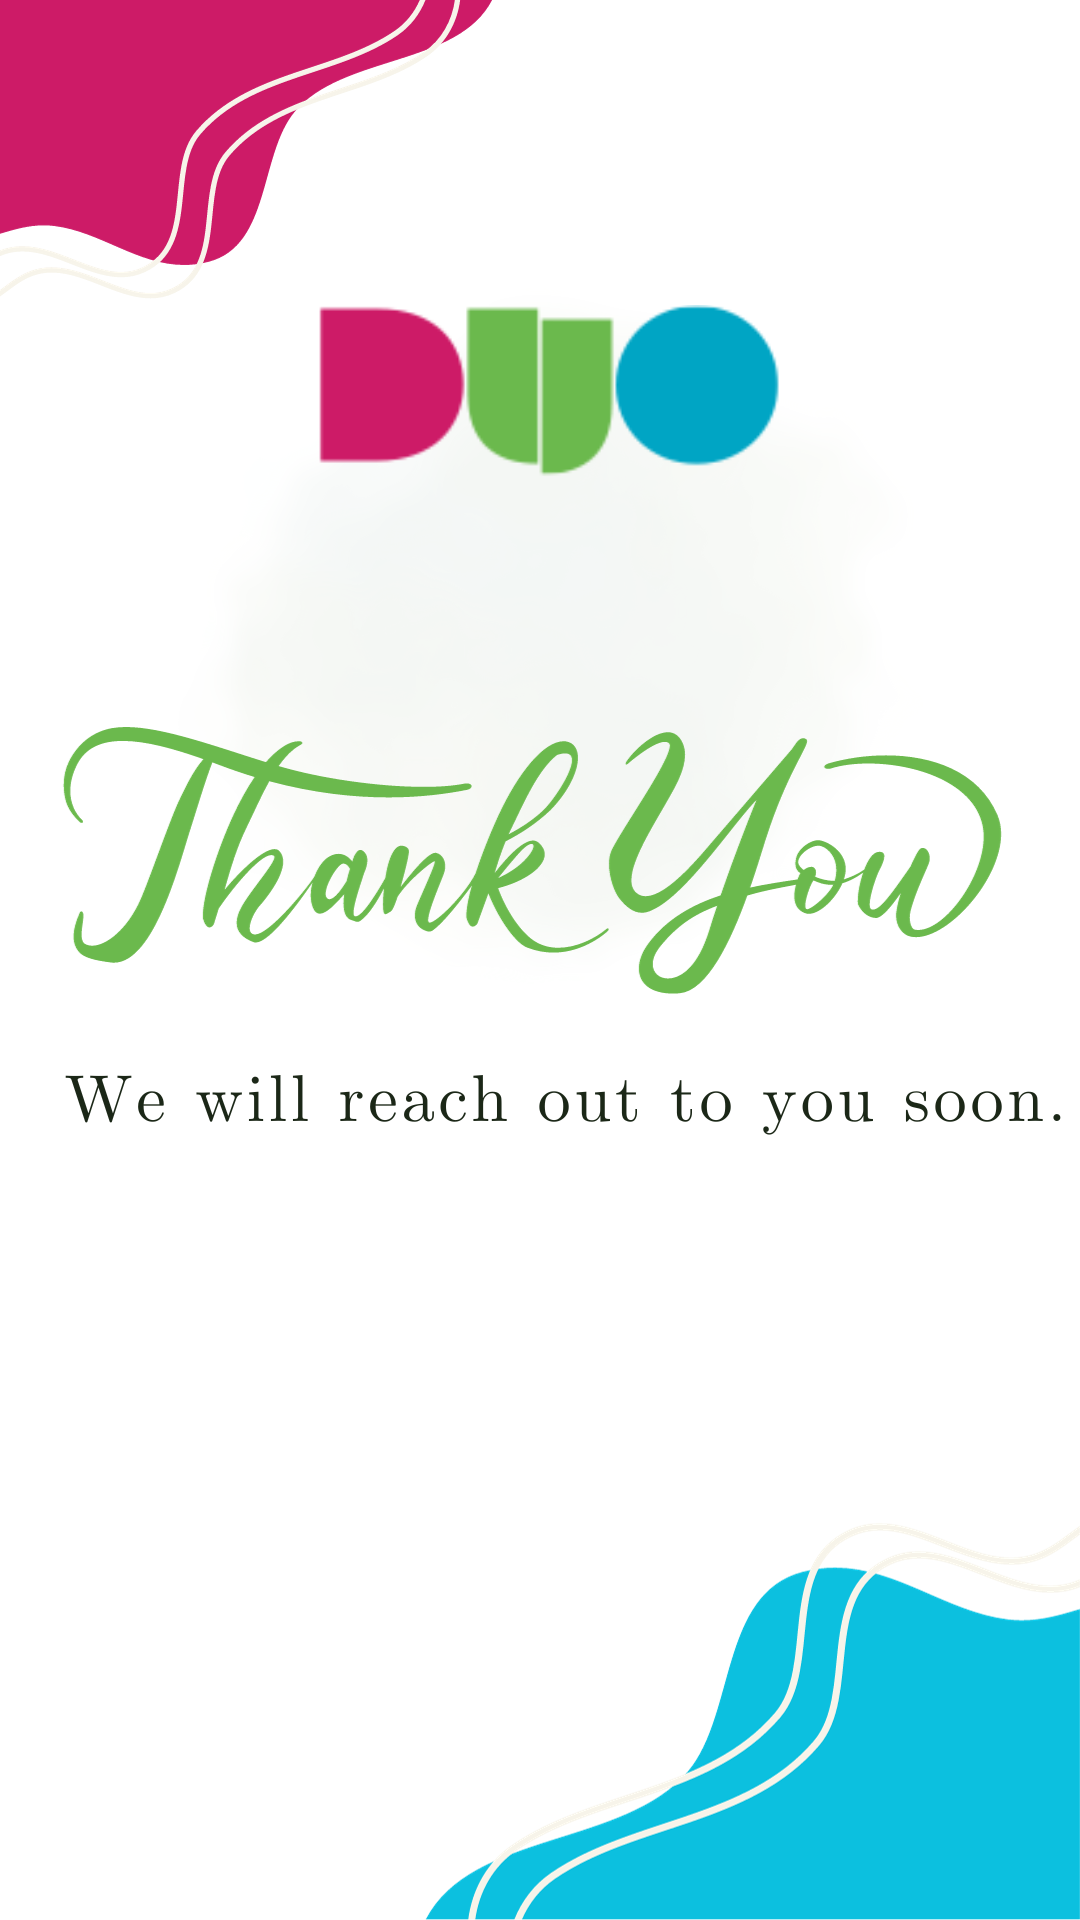
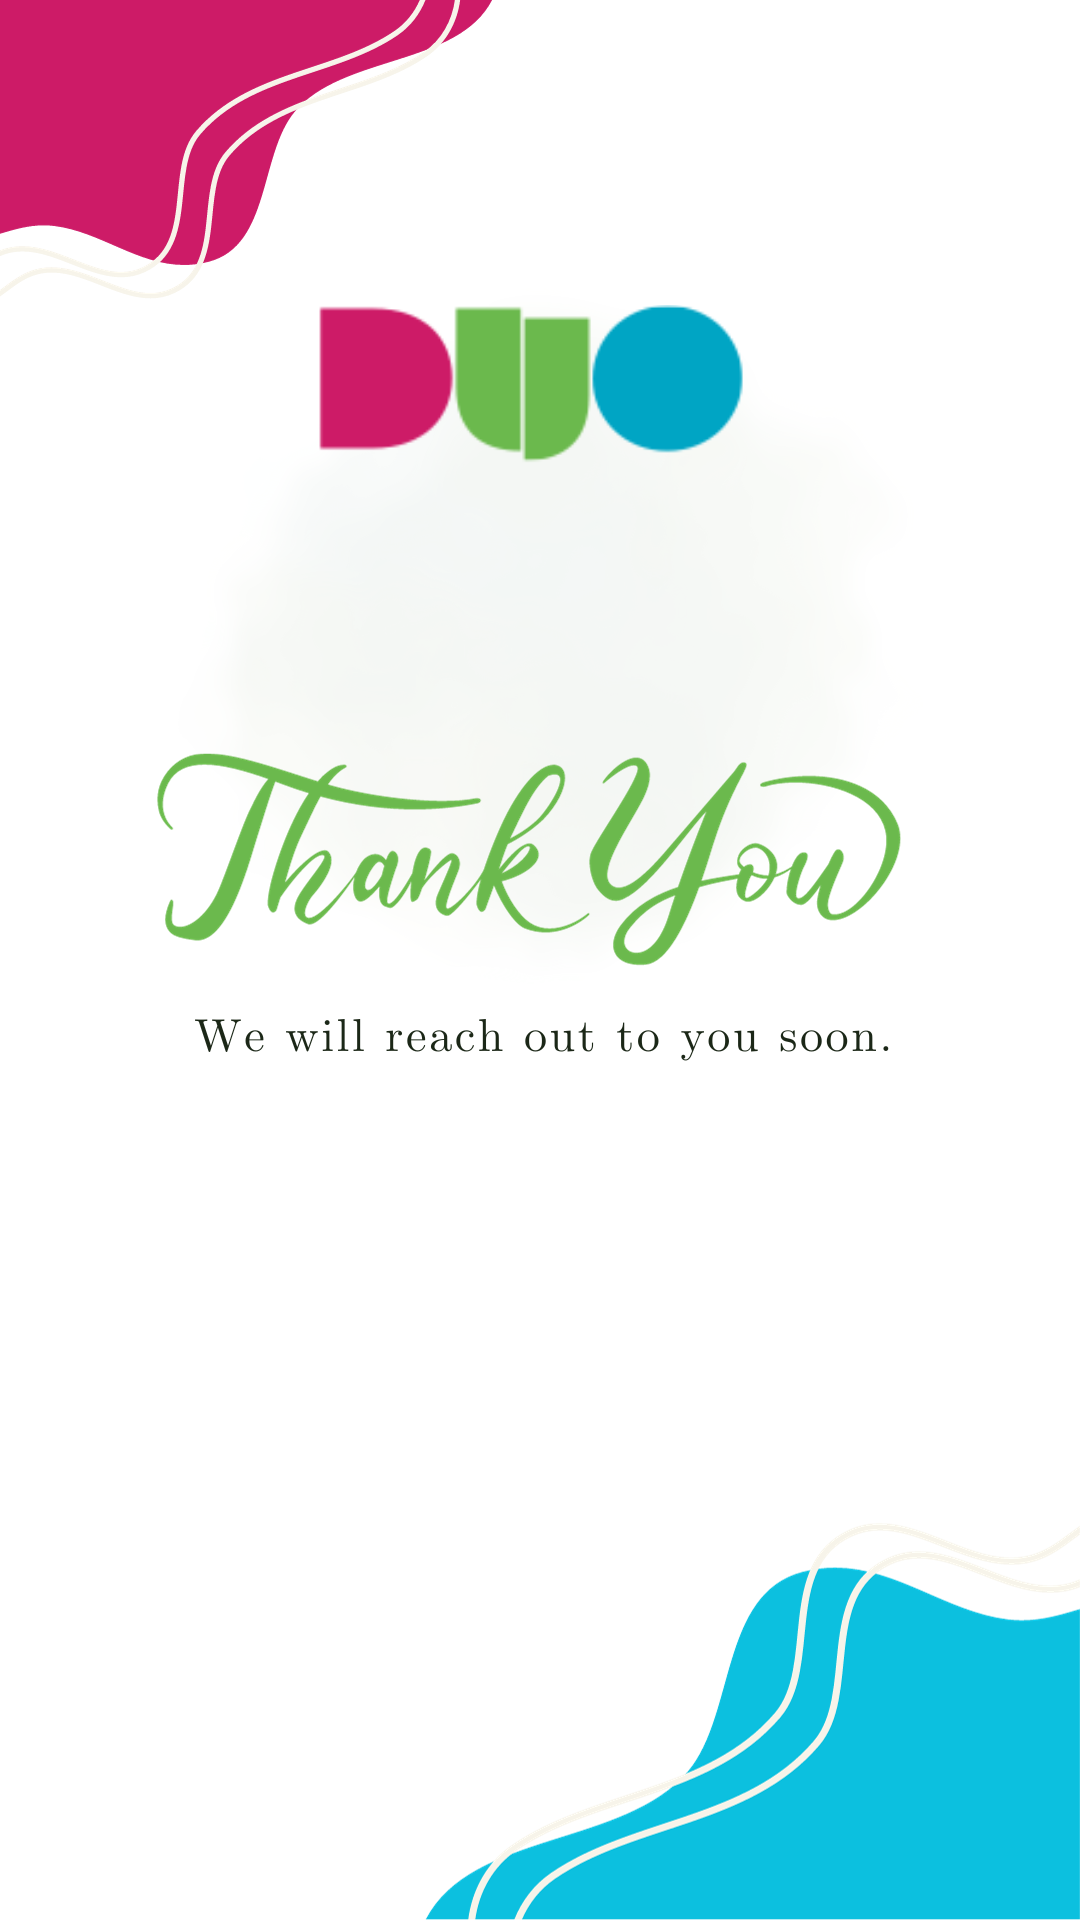
position fixed

diff --git a/css/style.css b/css/style.css
@@ -1,5 +1,4 @@
 @import url('https://fonts.googleapis.com/css2?family=Nunito:wght@200;300;400;500;600;700;800;900&display=swap');
-
 * {
     box-sizing: border-box;
     margin: 0;
@@ -556,19 +555,16 @@ textarea {
     .mess {
         height: 100px !important;
     }
-
     #myvideo {
         object-fit: cover;
         object-position: center;
         height: 200px !important;
     }
-
     .nav-link {
         color: rgb(0, 0, 0) !important;
         font-weight: 500;
         font-size: 20px;
     }
-
     .nav-link:hover,
     .nav-link-active {
         color: #000000 !important;
@@ -576,17 +572,14 @@ textarea {
         text-underline-offset: 5px;
         text-decoration-thickness: 2px;
     }
-
     .center-sm {
         text-align: center;
     }
-
     .footer-images {
         display: flex;
         justify-content: space-between;
         align-items: center;
     }
-
     .img-text {
         position: absolute;
         bottom: 10px;
@@ -598,11 +591,9 @@ textarea {
         text-shadow: 1px 1px #000000;
         font-size: 1.2rem;
     }
-
     .border-left {
         border-left: none
     }
-
     #hero {
         width: 100%;
         height: 100vh;
@@ -611,7 +602,6 @@ textarea {
         background-position: center;
         position: relative;
     }
-
     #hero .hero-container {
         position: relative;
         display: flex;
@@ -619,20 +609,18 @@ textarea {
         justify-content: center;
         flex-direction: column;
     }
-
     #thankyou {
         width: 100%;
-        height: 105vh;
+        height: 100vh;
         background: url("../images/thankyou-sm.png");
         background-size: cover;
         background-position: center;
         position: relative;
     }
-
     #thankyou .thankyou-container {
         position: relative;
+        top: 32rem;
         display: flex;
-        top: 31rem;
         align-items: center;
         justify-content: center;
         flex-direction: column;
